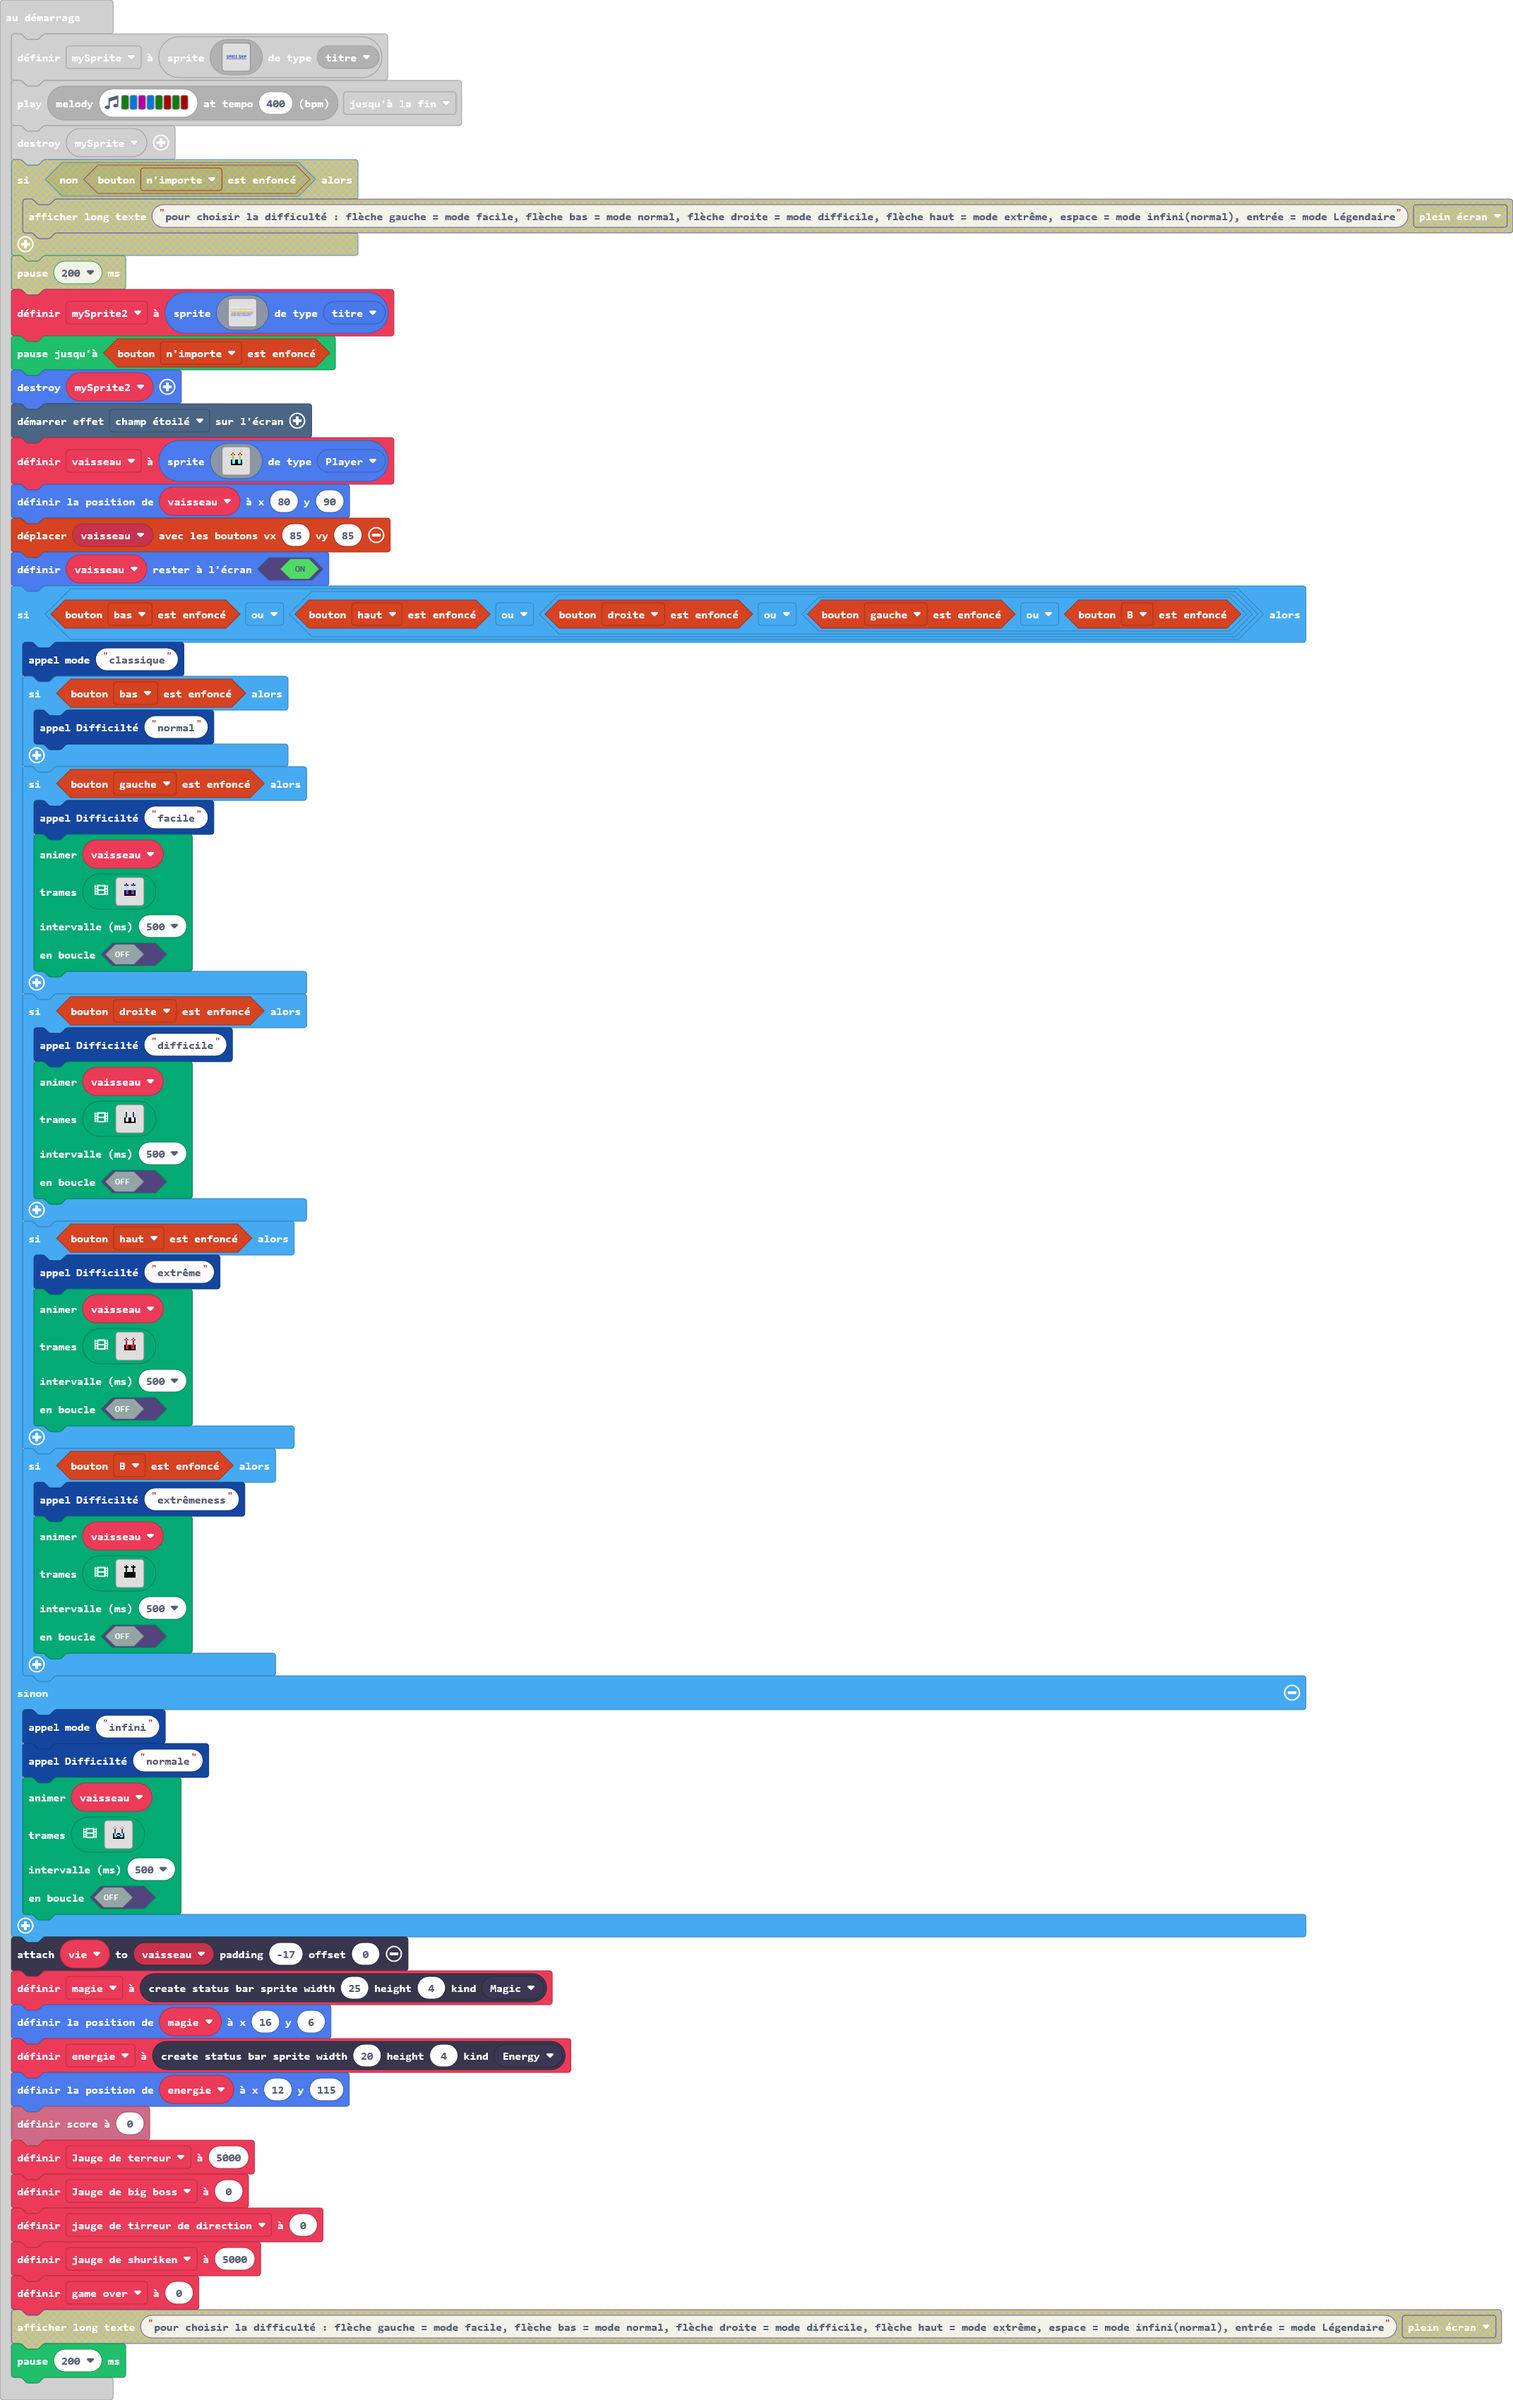
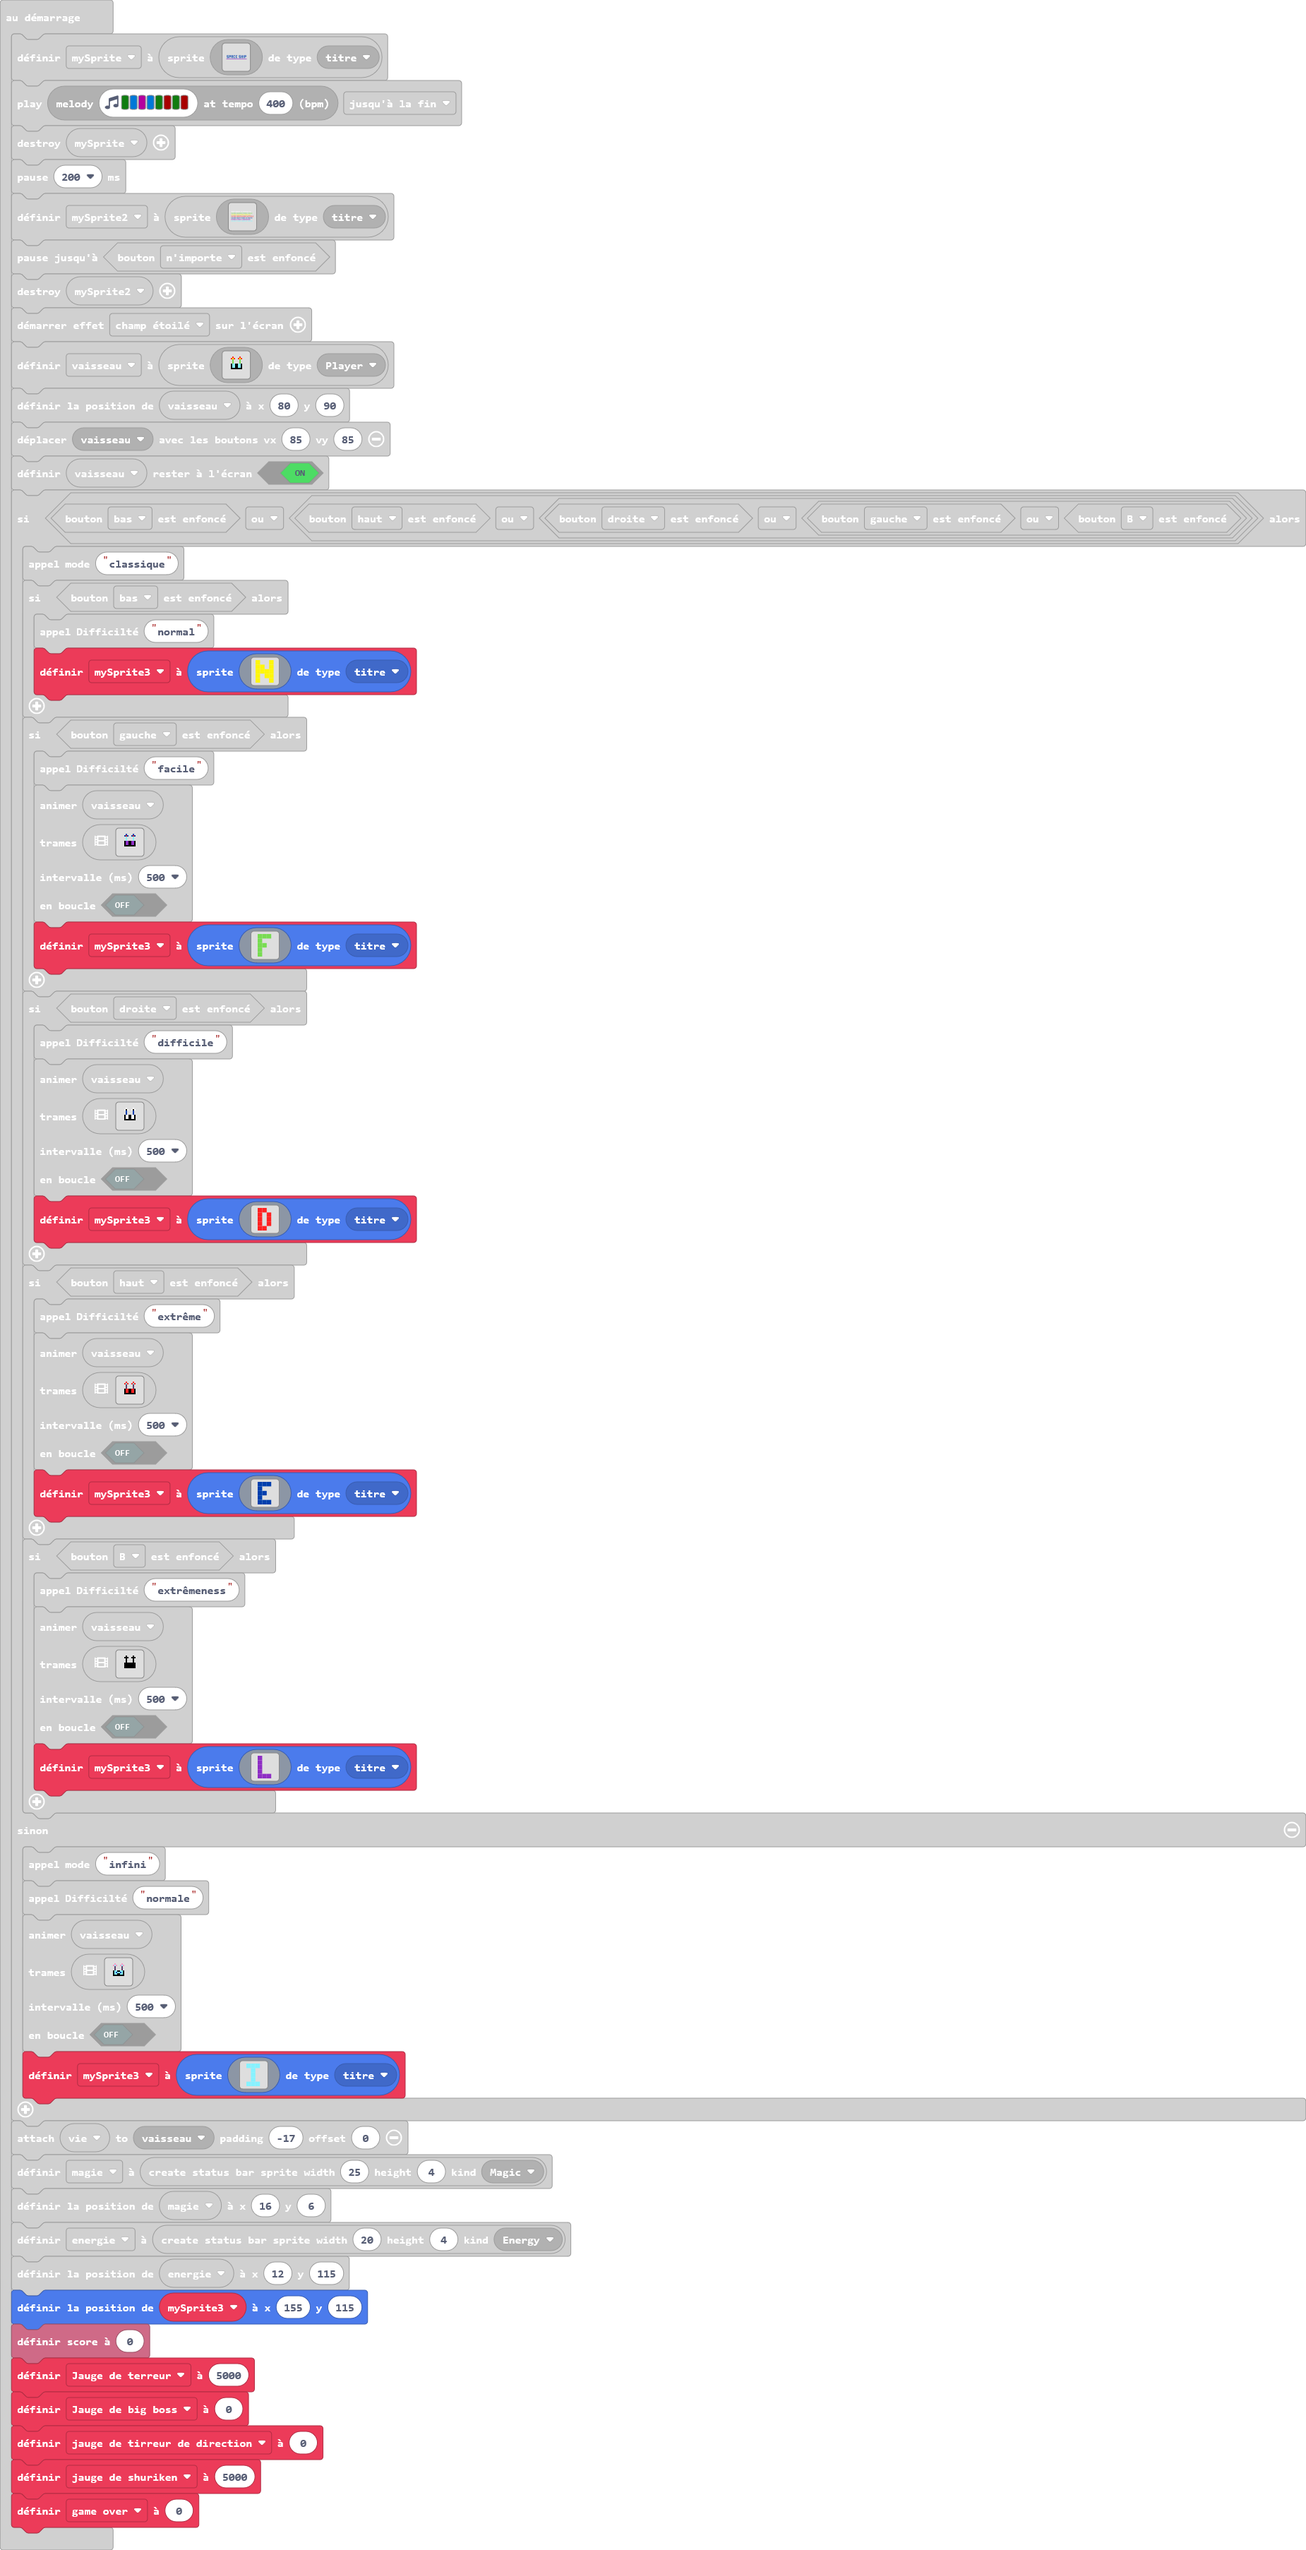
Mise à jour main.blocks, main.ts

Changed region(s): [[0.0, 0.0, 1.0, 1.0]]

diff --git a/main.ts b/main.ts
@@ -275,6 +275,7 @@ let game_over = 0
 let energie: StatusBarSprite = null
 let magie: StatusBarSprite = null
 let vie: StatusBarSprite = null
+let mySprite3: Sprite = null
 let vaisseau: Sprite = null
 let mySprite = sprites.create(img`
     .........................................
@@ -352,6 +353,13 @@ if (controller.down.isPressed() || (controller.up.isPressed() || (controller.rig
     mode("classique")
     if (controller.down.isPressed()) {
         Difficilté("normal")
+        mySprite3 = sprites.create(img`
+            5 . . 5 
+            5 5 . 5 
+            5 5 5 5 
+            5 . 5 5 
+            5 . . 5 
+            `, SpriteKind.titre)
     }
     if (controller.left.isPressed()) {
         Difficilté("facile")
@@ -378,6 +386,13 @@ if (controller.down.isPressed() || (controller.up.isPressed() || (controller.rig
         500,
         false
         )
+        mySprite3 = sprites.create(img`
+            7 7 7 
+            7 . . 
+            7 7 . 
+            7 . . 
+            7 . . 
+            `, SpriteKind.titre)
     }
     if (controller.right.isPressed()) {
         Difficilté("difficile")
@@ -404,6 +419,13 @@ if (controller.down.isPressed() || (controller.up.isPressed() || (controller.rig
         500,
         false
         )
+        mySprite3 = sprites.create(img`
+            2 2 . 
+            2 . 2 
+            2 . 2 
+            2 . 2 
+            2 2 . 
+            `, SpriteKind.titre)
     }
     if (controller.up.isPressed()) {
         Difficilté("extrême")
@@ -430,6 +452,13 @@ if (controller.down.isPressed() || (controller.up.isPressed() || (controller.rig
         500,
         false
         )
+        mySprite3 = sprites.create(img`
+            8 8 8 
+            8 . . 
+            8 8 . 
+            8 . . 
+            8 8 8 
+            `, SpriteKind.titre)
     }
     if (controller.B.isPressed()) {
         Difficilté("extrêmeness")
@@ -456,6 +485,13 @@ if (controller.down.isPressed() || (controller.up.isPressed() || (controller.rig
         500,
         false
         )
+        mySprite3 = sprites.create(img`
+            a . . 
+            a . . 
+            a . . 
+            a . . 
+            a a a 
+            `, SpriteKind.titre)
     }
 } else {
     mode("infini")
@@ -483,12 +519,20 @@ if (controller.down.isPressed() || (controller.up.isPressed() || (controller.rig
     500,
     false
     )
+    mySprite3 = sprites.create(img`
+        9 9 9 
+        . 9 . 
+        . 9 . 
+        . 9 . 
+        9 9 9 
+        `, SpriteKind.titre)
 }
 vie.attachToSprite(vaisseau, -17, 0)
 magie = statusbars.create(25, 4, StatusBarKind.Magic)
 magie.setPosition(16, 6)
 energie = statusbars.create(20, 4, StatusBarKind.Energy)
 energie.setPosition(12, 115)
+mySprite3.setPosition(155, 115)
 info.setScore(0)
 let Jauge_de_terreur = 5000
 let Jauge_de_big_boss = 0
